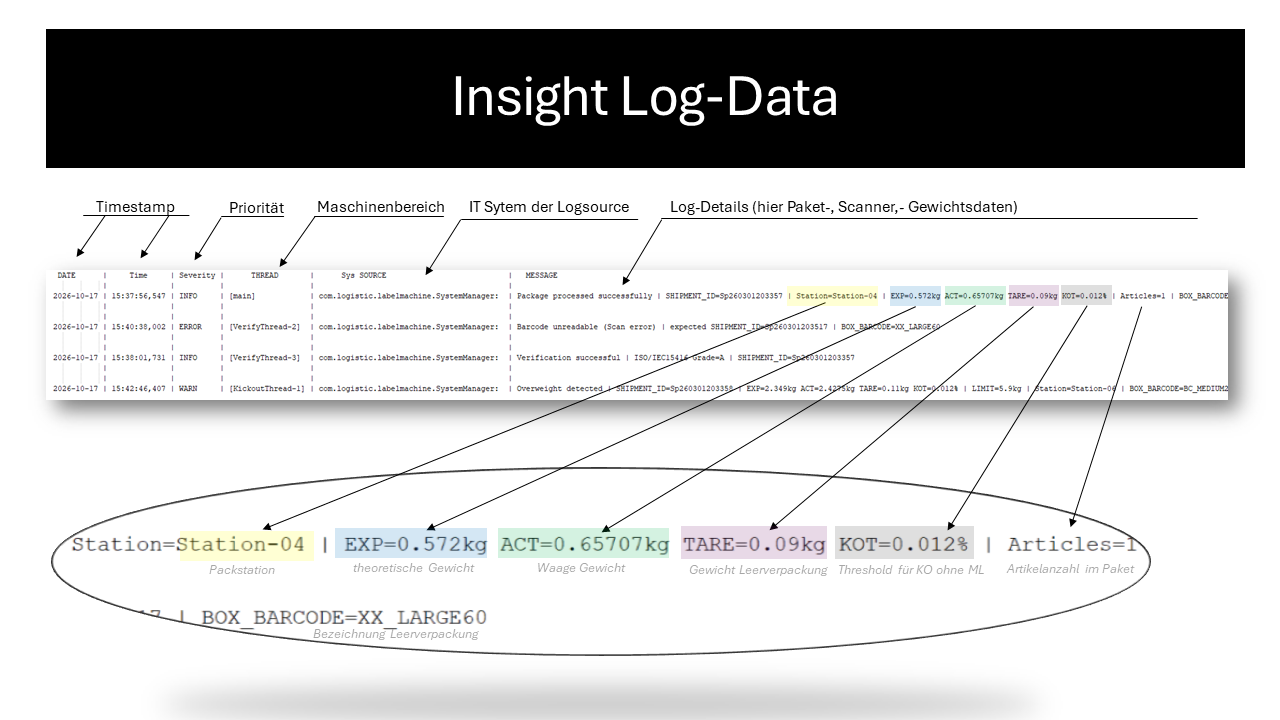
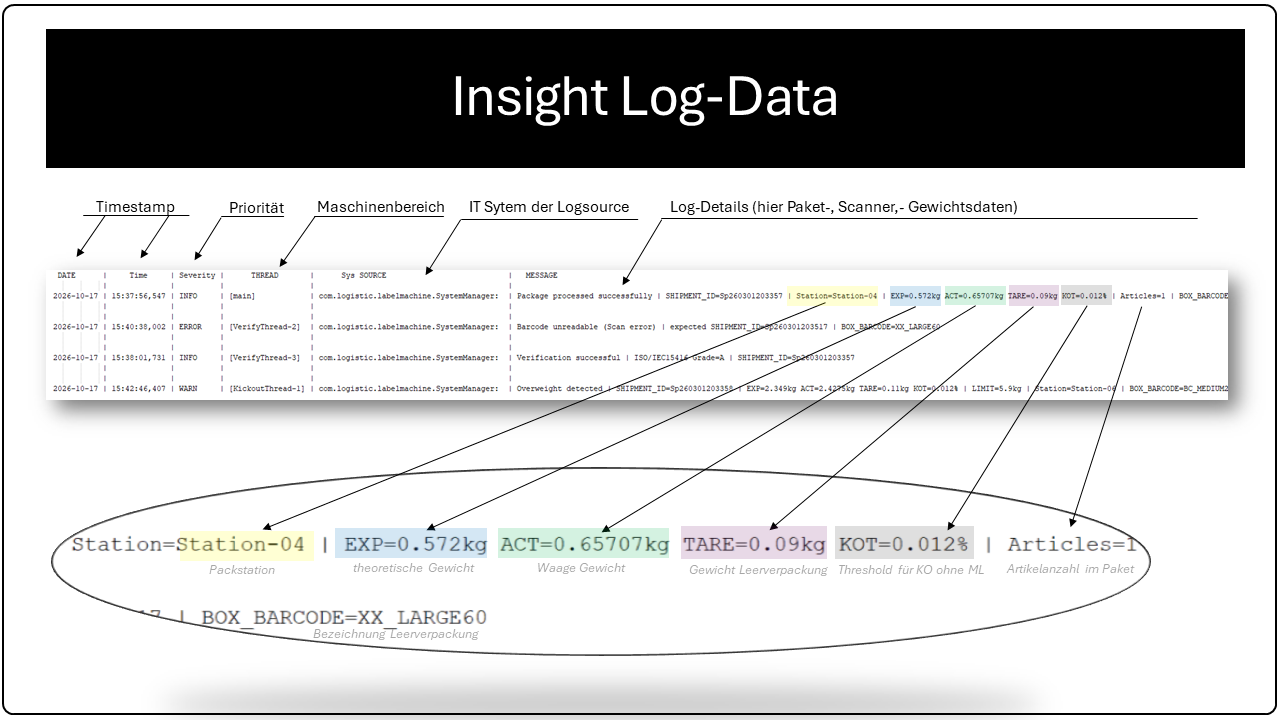
final updated for wordings and insights in almost all pages

Changed region(s): [[0.0, 0.9778, 1.0, 1.0], [0.9688, 0.0, 1.0, 0.0306], [0.0, 0.0, 0.0312, 0.0306]]

diff --git a/webpage/useful/insight.py b/webpage/useful/insight.py
@@ -23,114 +23,147 @@ st.markdown(
 
 # showing expander for Conveyor & Machine description
 with st.expander(":material/arrow_drop_down: :violet[**Conveyor & Machine**]"):
-    BASE_DIR = Path(__file__).resolve().parent.parent
-    img_path = BASE_DIR / "images" / "TheMachine.png"
-    image = Image.open(img_path)
-    st.image(image, caption="Teams Project", width=800)
+    col1, col2 = st.columns([2, 1])
+    with col1:
+        BASE_DIR = Path(__file__).resolve().parent.parent
+        img_path = BASE_DIR / "images" / "TheMachine.png"
+        image = Image.open(img_path)
+        st.image(image, caption="Teams Project", width="stretch")
 
-    st.markdown(
-        "<span style='color:black; font-weight:bold;'>:red[Summary]</span>",
-        unsafe_allow_html=True)
-    st.write("**Couple of unexpected behavior can happen on packaging lines and respective machines, such as:**\
-             \n* :red[Unfocused employees]\
-             \n* :red[Wear and tear on machinery]\
-             \n* :red[Material waste]\
-             \n* :red[Disorganized shift handover processes]\
-             \n:red[ect...]\
-             \n\n**:green[Our Mission:]** :green[In search of ways to improve process transparency and optimize productivity inclusive support & ticket-system.]")
+        st.markdown(
+            "<span style='color:black; font-weight:bold;'>:red[Summary]</span>",
+            unsafe_allow_html=True)
+        st.write("**Couple of unexpected behavior can happen on packaging lines and respective machines, such as:**\
+                 \n* :red[Unfocused employees]\
+                 \n* :red[Wear and tear on machinery]\
+                 \n* :red[Material waste]\
+                 \n* :red[Disorganized shift handover processes]\
+                 \n:red[ect...]\
+                 \n\n**:green[Our Mission:]** :green[In search of ways to improve process transparency and optimize productivity inclusive support & ticket-system.]")
 
 # showing expander for Logfile Generator
 with st.expander(":material/arrow_drop_down: :violet[**Logfile-Generator**]"):
-    col1, col2 = st.columns([1,1])
-    with col1:
+    col3, col4 = st.columns([1,1])
+    with col3:
         BASE_DIR = Path(__file__).resolve().parent.parent
-        img_path = BASE_DIR / "images" / "LogGeneratorA.PNG"
+        img_path = BASE_DIR / "images" / "LogGeneratorA.png"
         image = Image.open(img_path)
-        st.image(image, caption="by Marco M.", width=600)
-    with col2:
+        st.image(image, caption="by Marco M.", width="stretch")
+    with col4:
         BASE_DIR = Path(__file__).resolve().parent.parent
-        img_path = BASE_DIR / "images" / "LogGeneratorB.PNG"
+        img_path = BASE_DIR / "images" / "LogGeneratorB.png"
         image = Image.open(img_path)
-        st.image(image, caption="by Marco M.", width=600)
+        st.image(image, caption="by Marco M.", width="stretch")
 
     st.write("**Download Python-Code:** [Github](https://github.com/MamicGit/Proj_Machine-Log-Navigator/tree/main/Logfile_CustomerOrder_Generator)")
 
 # showing expander for ETL description
 with st.expander(":material/arrow_drop_down: :violet[**ETL**]"):
-    BASE_DIR = Path(__file__).resolve().parent.parent
-    img_path = BASE_DIR / "images" / "Datenfluss_3.png"
-    image = Image.open(img_path)
-    st.image(image, caption="by Mohamad E.", width=800)
+    col5, col6 = st.columns([2, 1])
+    with col5:
+        BASE_DIR = Path(__file__).resolve().parent.parent
+        img_path = BASE_DIR / "images" / "Datenfluss_3.png"
+        image = Image.open(img_path)
+        st.image(image, caption="by Mohamad E.", width="stretch")
 
-    st.markdown(
-        "<span style='color:black; font-weight:bold;'>:red[ETL Description]</span>",
-        unsafe_allow_html=True)
-    st.write("The ETL pipeline processes unstructured log data and transforms it into an analysis-ready dataset.\
-             \n\nRaw logs are first parsed, cleaned, and temporally normalized to ensure consistency.\
-             \nThe data is then aggregated on shipment level and enriched with relevant features such as weight differences, relative deviations, and kickout indicators.\
-             \nIn addition, a mapping logic is implemented to assign production stops to the corresponding previous shipment.\
-             \n\n**The final dataset is stored in a SQLite database and serves as the foundation for further analysis and machine learning.**")
-    st.write(
-        "**ETL-Pipeline:** [Github](https://github.com/mohamaddataeng/log-machine-pipeline/tree/main/scripts)")
+        st.markdown(
+            "<span style='color:black; font-weight:bold;'>:red[ETL Description]</span>",
+            unsafe_allow_html=True)
+        st.write("The ETL pipeline processes unstructured log data and transforms it into an analysis-ready dataset.\
+                 \n\nRaw logs are first parsed, cleaned, and temporally normalized to ensure consistency.\
+                 \nThe data is then aggregated on shipment level and enriched with relevant features such as weight differences, relative deviations, and kickout indicators.\
+                 \nIn addition, a mapping logic is implemented to assign production stops to the corresponding previous shipment.\
+                 \n\n**The final dataset is stored in a SQLite database and serves as the foundation for further analysis and machine learning.**")
+        st.write(
+            "**ETL-Pipeline:** [Github](https://github.com/mohamaddataeng/log-machine-pipeline/tree/main/scripts)")
 
 # showing expander for EDA description
 with st.expander(":material/arrow_drop_down: :violet[**The EDA**]"):
-    BASE_DIR = Path(__file__).resolve().parent.parent
-    img_path = BASE_DIR / "images" / "PresentationEDA.png"
-    image = Image.open(img_path)
-    st.image(image, caption="by Mohamad E.", width=800)
+    col7, col8 = st.columns([2, 1])
+    with col7:
+        BASE_DIR = Path(__file__).resolve().parent.parent
+        img_path = BASE_DIR / "images" / "PresentationEDA.png"
+        image = Image.open(img_path)
+        st.image(image, caption="by Mohamad E.", width="stretch")
 
-    st.markdown(
-        "<span style='color:black; font-weight:bold;'>:red[Summary]</span>",
-        unsafe_allow_html=True)
-    st.write("Exploratory Data Analysis (EDA) was conducted to identify patterns and potential sources of production issues.\
-             \nThe analysis revealed clear patterns around shift changes, where kickout rates peak at approximately 06:00 and 22:00, indicating instability during operational transitions.\
-             \n\nIn contrast, midday operations remain relatively stable.\
-             \nA station-level analysis showed that Station 11 has a significantly higher kickout rate (~32%) compared to the average (~22%),\
-             \nsuggesting a station-specific issue rather than a system-wide problem.\
-             \n\nAdditionally, print quality analysis (SLAM 1 and SLAM 2) highlighted its influence on process stability and error occurrence,\
-             \nindicating that deviations in print quality can contribute to operational disruptions.\
-             \n\n**These findings help to better understand system behavior and provide a basis for targeted optimization measures.**")
+        st.markdown(
+            "<span style='color:black; font-weight:bold;'>:red[Summary]</span>",
+            unsafe_allow_html=True)
+        st.markdown("""
+        **Exploratory Data Analysis (EDA) identifies key patterns and sources of production issues.**
+        - Findings:
+            - Kickout rates peak during shift changes (~06:00 and ~22:00), indicating instability during transitions.
+            - Midday operations remain relatively stable.
+            - Station 11 shows a significantly higher kickout rate (~32% vs. ~22%), suggesting a local issue.
+            - Print quality (SLAM 1 & 2) impacts process stability and error rates.
+            - Stop probability remains low at normal speeds but increases sharply beyond ~2.3 m/s.
+            - Higher speeds significantly increase the risk of system instability and should be avoided.
+            """)
+        st.markdown("""
+        **These insights support targeted optimization and improved process stability.**
+        """)
 
 # showing expander for ML description
 with st.expander(":material/arrow_drop_down: :violet[**Machine Learning ML**]"):
-    BASE_DIR = Path(__file__).resolve().parent.parent
-    img_path = BASE_DIR / "images" / "PicturePlaceholder.png"
-    image = Image.open(img_path)
-    st.image(image, caption="by Michael S.", width=800)
+    col9, col10 = st.columns([2, 1])
+    with col9:
+        BASE_DIR = Path(__file__).resolve().parent.parent
+        img_path = BASE_DIR / "images" / "PicturePlaceholder.png"
+        image = Image.open(img_path)
+        st.image(image, caption="by Michael S.", width="stretch")
 
-    st.markdown(
-        "<span style='color:black; font-weight:bold;'>:red[Summary]</span>",
-        unsafe_allow_html=True)
+        st.markdown(
+            "<span style='color:black; font-weight:bold;'>:red[Summary]</span>",
+            unsafe_allow_html=True)
 
-    st.write("The goal of machine learning in this project was to find a way to increase process productivity for Quality Department, and increase customer experience.\
-             \n....\
-             \n\n...\
-             \n...\
-             \n...\
-             \n\n...\
-             \n...\
-             \n\n**Result:**")
+        st.write("The goal of machine learning in this project was to find a way to increase process productivity for Quality Department, and increase customer experience.\
+                 \n....\
+                 \n\n...\
+                 \n...\
+                 \n...\
+                 \n\n...\
+                 \n...\
+                 \n\n**Result:**")
 
 # showing expander for Website-Portal & Configurations description
 with st.expander(":material/arrow_drop_down: :violet[**Website-Portal & Configurations**]"):
-    BASE_DIR = Path(__file__).resolve().parent.parent
-    img_path = BASE_DIR / "images" / "WebFlow.png"
-    image = Image.open(img_path)
-    st.image(image, caption="by Marco M.", width=800)
+    col11, col12 = st.columns([2, 1])
+    with col11:
+        BASE_DIR = Path(__file__).resolve().parent.parent
+        img_path = BASE_DIR / "images" / "WebFlow.png"
+        image = Image.open(img_path)
+        st.image(image, caption="by Marco M.", width="stretch")
 
     st.markdown(
         "<span style='color:black; font-weight:bold;'>:red[Summary]</span>",
         unsafe_allow_html=True)
 
-    st.write("As a first step, I set up the AWS environment with S3, an EC2 instance, EBS, an Elastic IP and a cost dashboard.\
-             \nAfterwards I ran some test.py scripts over a 1-week period to ensure the functionality, performance, stability, and cost efficiency of Python Streamlit on AWS.\
-             \n\nIn a second step, I concurrently created a Streamlit Cloud profile on share.streamlit.io (full independent second Web-Portal) along with an independent second Git repository,\
-             \nto have a backup option for the team avoiding any risk for the team-project.\
-             \n\nIn the third and most extensive step, I developed and deployed all Streamlit Python files, including the corresponding content for KPIs, dashboards, functionalities, tables, and other components.\
-             \nIn parallel, I applied exploratory data analysis (EDA) to identify and present the most relevant KPIs and visualizations.\
-             \n\n**Result:** The [AWS-Portal](http://54.225.90.74/) :grey[(sign in with login and PW avoding bot-attacks)], and in addition the  [streamlit.io-Portal](https://dsimlnappio-dsi-finalproject.streamlit.app/) :grey[(free access)]")
-    st.write("**Python Environment:** [Github](https://github.com/MamicGit/Proj_Machine-Log-Navigator/tree/main/webpage)")
+    st.markdown("""
+- **As very first step: Server checking and testing**
+    - Set up an AWS environment comprising S3, EC2 instances, EBS, Elastic IP, Nginx, and a cost control dashboard.
+    - Set up PuTTY and WinSCP for productive use.
+    - Executed test.py scripts over a one-week period to assess functionality, performance, stability, and cost efficiency of Python Streamlit on AWS.
+    - Created in parallel a Streamlit Cloud profile on [share.streamlit.io](https://share.streamlit.io/) as full independent second Web-Portal.
+    - Set up an independent second Git repository, ensuring no risk to project outcomes.
+    - Syntax and script procedures tested and standardized; running without errors on both servers.
+    """)
+    st.markdown("""
+- **As second most extensive step: Developing & deploying**
+    - Created a design mockup covering navigation bar behavior and file structure.
+    - Performed EDA to understand the data and establish best practices for KPIs, dashboards, tables, and other components.
+    - Implementation of all components and functions into the corresponding files.
+    - Filled the portal with content, including the ticket system and descriptions.
+    """)
+    st.markdown("""
+- **As final step: Review and complete**
+    - Requested unit tests and applied several updates.
+    """)
+    st.markdown("""
+- **Result:**
+    - [AWS-Portal](http://54.225.90.74/) :grey[(sign in with login and PW avoding bot-attacks)], and in addition the  [streamlit.io-Portal](https://dsimlnappio-dsi-finalproject.streamlit.app/) :grey[(free access)]
+    - *Python Environment:** [Github](https://github.com/MamicGit/Proj_Machine-Log-Navigator/tree/main/webpage)
+    """)
+
 st.divider()
 
 # # # # # # # # # # # # # # # # # # # # # # # # # # # # # # # # # # # # # # # # # # # # #

diff --git a/webpage/support/help.py b/webpage/support/help.py
@@ -20,17 +20,23 @@ with col1:
                                                           "Insights","Bugreport","Feature Request","KPI", "Other"])
     st.write("")
     texte = {
-        "- please select -": "",
-        "Dashboard": "A dashboard is a visual overview that displays key performance indicators and data in real-time to support decision-making.",
-        "PckgLine Matrix": "Shows all packaging lines for direct comparisons",
-        "Data Management": "Upload / Download Data, inspect raw data",
-        "Site Search": "This page :wink:",
-        "Insights": "The Insights page provides some important information about specific meanings of packaging line components.",
-        "Bugreport": "Report a bug using the ticket system.",
-        "Feature Request": "Requesting the addition of a feature to enhance user experience and functionality.",
-        "KPI": "KPI stands for 'Key Performance Indicator' and refers to measurable values that assess the success or progress of an organization or project.\nThey help track performance and inform strategic decisions.",
-        "Other": "Since this type of '**help-section**' varies greatly depending on the company and specific use cases, its content here is generally temporary."
-                 "\nThe page can be customized: **please adjust the content accordingly**"
+        "- please select -": "🔍 **Select from the dropdown to find answers.**",
+        "Dashboard": "The Dashboard provides KPIs and Charts for real-time view of system performance.\nColor coding indicates system status: **green** for stable, **yellow** for warning, and **red** for critical.\
+         \nUse the 'Packaging Line Station' filter to focus on the line you are responsible for (permission request required, compliance with data protection guidelines). \
+         \n\n(Please note: the  filter is implemented to simulate different daily snapshots for the project committee!)",
+        "KPI": "KPI stands for **Key Performance Indicator**. You’ll find them in the dashboard, which helps speed up decision-making processes.",
+        "Logdata": "Logdata used in this system is located in the machine system and means summary ob couple of data ",
+        "PckgLine Matrix": "Provides an overview of all packaging lines for direct comparison.\n \
+         Color coding highlights performance differences and helps identify potential risks and critical slam stations.",
+        "Data Management": "Displays raw and processed data used in our Portal. You can inspect and download dataset.\nUseful for debugging, validation and deeper analysis.",
+        "Site Search": "Search for keywords like KPI, dashboard or insights. Helps you quickly find relevant pages and informations.\nIf no results appear, try more general term.",
+        "Insights": "Provides deeper insight into specific project items and enhances understanding of machine process behavior.\
+         \nHelps you better understand the root causes of issues and supports fact-based decision-making.",
+        "Bugreport": "Report issues or unexpected system behavior.\nProvide clear description to help faster resolution.\nHelps improve system stability and usability.",
+        "Feature Request": "Requesting the addition of a feature, data or views to enhance user experience and functionality. \
+         \nHelps evolve the platform based on user needs.",
+        "Other": "Since this type of '**help-section**' varies greatly depending on the company and specific use cases, its content here is generally temporary.\
+         \nThe page can be customized: **please adjust the content accordingly**"
     }
 
 # showing the results of selected dropdown

diff --git a/webpage/support/about.py b/webpage/support/about.py
@@ -14,9 +14,9 @@ st.write("Notes & Info's and Thanks")
 st.markdown(
     """
     ######
-    <span style='color:blue;'>
-    <b>first warm words:</b><br>
-    At the heart of this three-person team project are training sessions in Scrum, Python, ETL, EDA, SQLite, ML, AWS EC2/S3/SES/Lambda, Elastic IP, Streamlit, GitHub, Excel ect.,<br> 
+    <span style='color:black;'>
+    <b>First warm words:</b><br>
+    At the heart of this three-person team project are training sessions in <b>Scrum, Python, ETL, EDA, SQLite, ML, AWS EC2/S3/SES/Lambda, Elastic IP, Streamlit, GitHub, Excel ect.</b>,<br> 
     while ensuring the experience remains engaging and enjoyable throughout!<br>
     <br>Thanks a lot to <b><a href="https://data-science-institute.de/" target="_blank">DSI-Team</a></b> for their great six-month training program!<br>
     </span>
@@ -27,19 +27,24 @@ st.divider()
 
 # is showing our team, name order randomly for each refresh of page
 st.subheader("**Project Team**")
+
+var_marco = "[Marco M.](https://www.linkedin.com/in/marco-michaelis-4a610438a/)"
+var_michael = "[Michael S.](https://www.linkedin.com/in/schipper-michael/)"
+var_mohamad = "Mohamad E."
+
 var_teammember = randint(0,5)
 if var_teammember == 0:
-    team_mate = "Marco M.  |  Michael S.  |  Mohamad E."
+    team_mate = f"{var_marco} |  {var_michael}  |  {var_mohamad}"
 elif var_teammember == 1:
-    team_mate = "Marco M.  |  Mohamad E.  |  Michael S."
+    team_mate = f"{var_marco}  |  {var_mohamad}  |  {var_michael}"
 elif var_teammember == 2:
-    team_mate = "Mohamad E.  |  Marco M.  |  Michael S."
+    team_mate = f"{var_mohamad}  |  {var_marco}  |  {var_michael}"
 elif var_teammember == 3:
-    team_mate = "Mohamad E.  |  Michael S.  |  Marco M."
+    team_mate = f"{var_mohamad}  |  {var_michael}  |  {var_marco}"
 elif var_teammember == 4:
-    team_mate = "Michael S.  |  Mohamad E.  |  Marco M."
+    team_mate = f"{var_michael}  |  {var_mohamad}  |  {var_marco}"
 else:
-    team_mate = "Michael S.  |  Marco M.  |  Mohamad E."
+    team_mate = f"{var_michael}  |  {var_marco}  |  {var_mohamad}"
 st.write(team_mate)
 st.write("DSI Study Nov 2025 - Apr 2026")
 

diff --git a/webpage/dashboard/PackingLineMatrix.py b/webpage/dashboard/PackingLineMatrix.py
@@ -16,10 +16,10 @@ st.markdown("<br>", unsafe_allow_html=True)
 # simulate station status, just for illustrative purposes. In production environment of a company a configuration for each slam is required
 df = pd.DataFrame({
     "SlamLine": [f"SLAM{str(i).zfill(2)}" for i in range(1, 9)],
-    "Conveyor Speed Risk": ["🔴", "🟡", "🟢", "🔴", "🟢", "🟡", "🟡", "🟢"],
+    "Conveyor Speed Risk": ["🟢", "🟢", "🟢", "🔴", "🟢", "🟢", "🟡", "🟢"],
     "Conveyor Stops Risk": ["🟢", "🔴", "🟢", "🟡", "🟢", "🟢", "🟢", "🟡"],
-    "Toner Risk": ["🟢", "🟢", "🟢", "🟡", "🟢", "🔴", "🟢", "🟢"],
-    "Kickout Risk": ["🟢", "🔴", "🟡", "🟢", "🟢", "🟢", "🔴", "🟢"],
+    "Toner Risk": ["🟢", "🟢", "🟢", "🟡", "🟢", "🟢", "🟢", "🟢"],
+    "Kickout Risk": ["🟢", "🟢", "🟡", "🟢", "🟢", "🟢", "🔴", "🟢"],
 })
 
 st.dataframe(df, hide_index=True)
